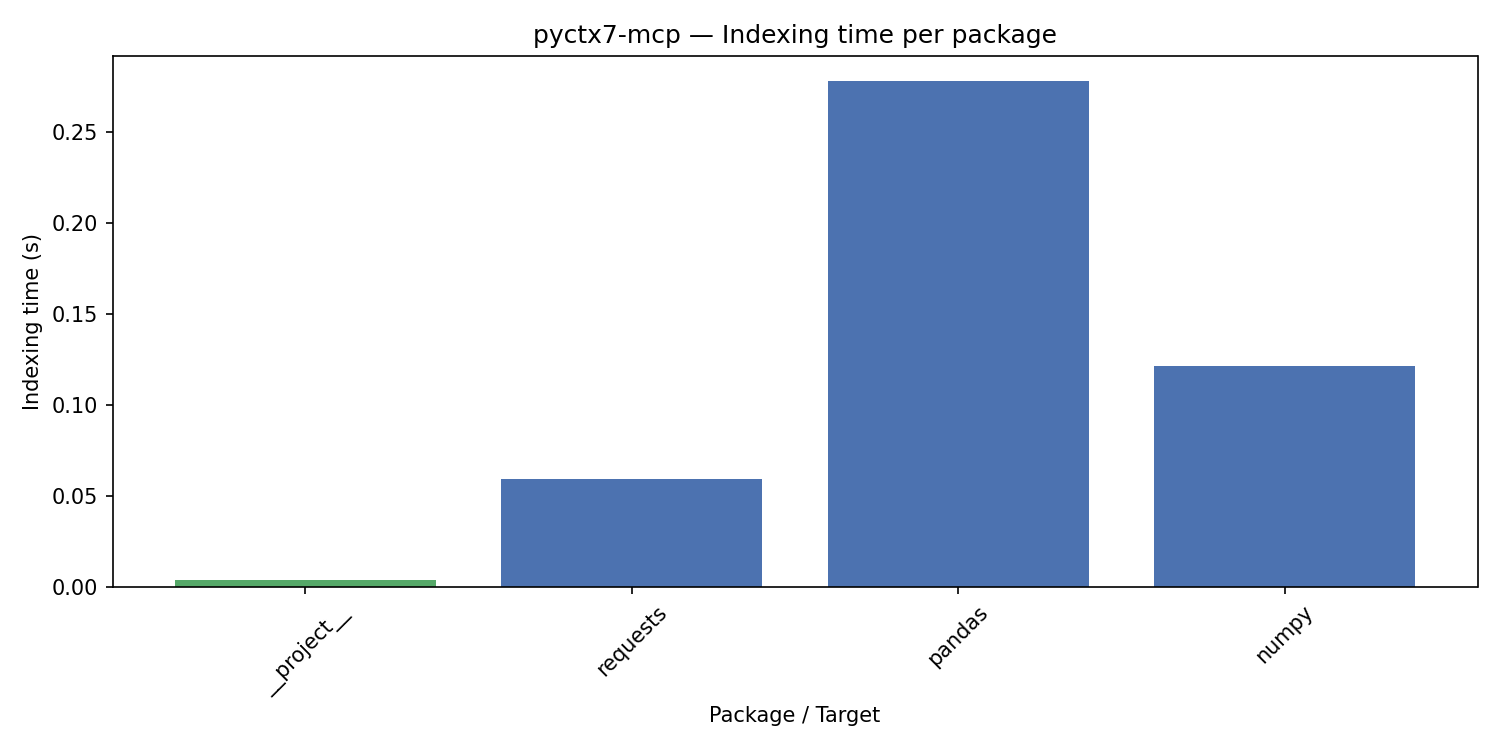
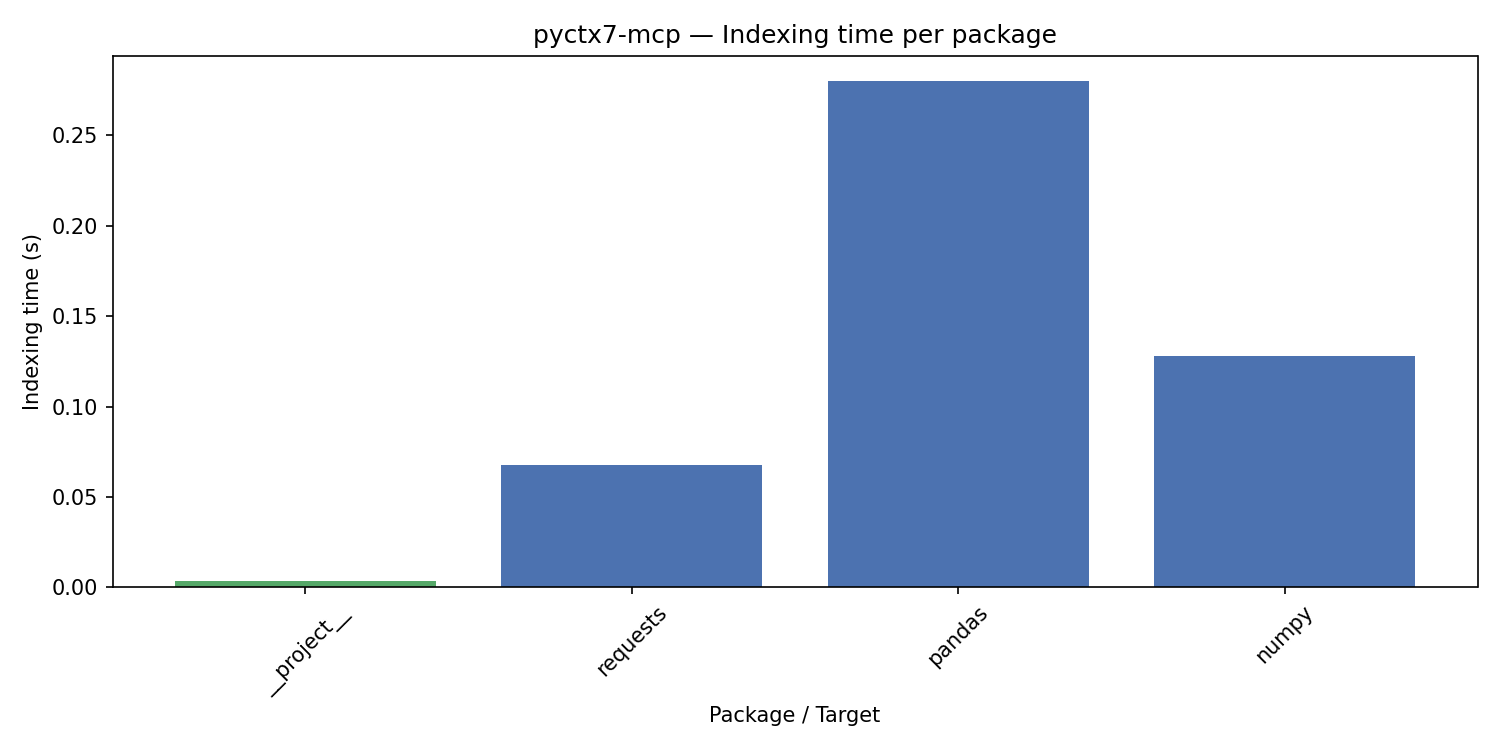
feat(benchmarks): add Neuledge Context results — 3-way comparison
Benchmarked all three systems on 20 queries against requests, pandas, numpy:

| System          | Latency  | Recall@5 | MRR@1 |
|-----------------|----------|----------|-------|
| pyctx7-mcp      | 2.4 ms   | 0.498    | 0.800 |
| Neuledge Context | 3.5 ms   | 0.200    | 0.200 |
| Context7         | 1,321 ms | 0.550    | 0.550 |

Neuledge Context installed from GitHub repos (requests, pandas, numpy docs).
Lower recall due to corpus mismatch (GitHub markdown vs pyctx7's module names).

Added: SSE parsing in neuledge_client.py, MCP initialize handshake,
library name mapping, checkpoint at data/checkpoints/neuledge.csv.

diff --git a/benchmarks/benchmarks/neuledge_client.py b/benchmarks/benchmarks/neuledge_client.py
@@ -1,19 +1,19 @@
-"""Neuledge Context MCP client over Streamable HTTP.
+"""Async HTTP client for Neuledge Context MCP endpoint.
 
 Neuledge Context is a local-first documentation MCP server backed by SQLite FTS5.
 It exposes a `get_docs` tool with `library` and `topic` parameters.
 
 The server must be running locally:
-    npm install -g @neuledge/context
-    context install requests pandas numpy
     context serve --http 8080
 
 This client connects via MCP Streamable HTTP at http://localhost:8080/mcp.
+The server uses Server-Sent Events (SSE) format for responses and requires
+an MCP initialize handshake before tool calls.
 """
 from __future__ import annotations
 
 import json
-from dataclasses import dataclass
+from typing import Optional
 
 import httpx
 
@@ -22,20 +22,50 @@ class NeuledgeError(Exception):
     """Raised when a Neuledge Context MCP call fails."""
 
 
-@dataclass
-class NeuledgeClient:
-    """Async MCP client for Neuledge Context HTTP server."""
+def _parse_sse_json(text: str) -> dict:
+    """Extract the JSON-RPC result from an SSE response body.
 
-    base_url: str = "http://localhost:8080/mcp"
-    _timeout: float = 30.0
-    _http: httpx.AsyncClient | None = None
-    _request_id: int = 0
+    Neuledge returns responses as SSE events:
+        event: message
+        data: {"result": {...}, "jsonrpc": "2.0", "id": 1}
+
+    We extract the JSON from the `data:` line.
+    """
+    for line in text.splitlines():
+        line = line.strip()
+        if line.startswith("data:"):
+            payload = line[len("data:"):].strip()
+            return json.loads(payload)
+    # Fallback: try parsing the whole body as JSON
+    return json.loads(text)
+
+
+class NeuledgeClient:
+    """Async context-manager client for Neuledge Context MCP tools.
+
+    Usage::
+
+        async with NeuledgeClient() as client:
+            docs = await client.get_docs("pandas", "DataFrame merge")
+    """
+
+    def __init__(
+        self,
+        base_url: str = "http://localhost:8080/mcp",
+        timeout: float = 30.0,
+    ):
+        self._base_url = base_url
+        self._timeout = timeout
+        self._http: Optional[httpx.AsyncClient] = None
+        self._request_id: int = 0
+        self._session_id: Optional[str] = None
 
     async def __aenter__(self) -> "NeuledgeClient":
         self._http = httpx.AsyncClient(
             timeout=self._timeout,
             headers={"Accept": "application/json, text/event-stream"},
         )
+        await self._initialize()
         return self
 
     async def __aexit__(self, *exc) -> None:
@@ -47,8 +77,41 @@ class NeuledgeClient:
         self._request_id += 1
         return self._request_id
 
+    async def _initialize(self) -> None:
+        """Send MCP initialize handshake (required before tool calls)."""
+        assert self._http is not None
+        payload = {
+            "jsonrpc": "2.0",
+            "id": self._next_id(),
+            "method": "initialize",
+            "params": {
+                "protocolVersion": "2024-11-05",
+                "capabilities": {},
+                "clientInfo": {"name": "pyctx7-bench", "version": "1.0"},
+            },
+        }
+        resp = await self._http.post(self._base_url, json=payload)
+        resp.raise_for_status()
+
+        # Store session ID from Mcp-Session-Id header if present
+        self._session_id = resp.headers.get("mcp-session-id")
+
+        data = _parse_sse_json(resp.text)
+        if "error" in data:
+            raise NeuledgeError(f"MCP initialize error: {data['error']}")
+
+        # Send initialized notification
+        notif = {
+            "jsonrpc": "2.0",
+            "method": "notifications/initialized",
+        }
+        headers = {}
+        if self._session_id:
+            headers["Mcp-Session-Id"] = self._session_id
+        await self._http.post(self._base_url, json=notif, headers=headers)
+
     async def _call_tool(self, tool_name: str, arguments: dict) -> str:
-        """Call an MCP tool and return the text content."""
+        """POST a JSON-RPC tool call and return the first text content block."""
         assert self._http is not None
         payload = {
             "jsonrpc": "2.0",
@@ -56,10 +119,20 @@ class NeuledgeClient:
             "method": "tools/call",
             "params": {"name": tool_name, "arguments": arguments},
         }
-        resp = await self._http.post(self.base_url, json=payload)
-        resp.raise_for_status()
+        headers = {}
+        if self._session_id:
+            headers["Mcp-Session-Id"] = self._session_id
 
-        data = resp.json()
+        try:
+            resp = await self._http.post(self._base_url, json=payload, headers=headers)
+            resp.raise_for_status()
+        except httpx.HTTPStatusError as exc:
+            raise NeuledgeError(f"HTTP {exc.response.status_code}") from exc
+        except httpx.RequestError as exc:
+            raise NeuledgeError(f"Network error: {exc}") from exc
+
+        data = _parse_sse_json(resp.text)
+
         if "error" in data:
             raise NeuledgeError(f"MCP error: {data['error']}")
 
@@ -77,7 +150,8 @@ class NeuledgeClient:
         """Search documentation for a library by topic.
 
         Args:
-            library: Package identifier (e.g. "pandas", "numpy").
+            library: Package identifier as shown in `context list`
+                     (e.g. "pandas@2.2.2", "numpy@2.0.0").
             topic: Search query / topic string.
 
         Returns:

diff --git a/benchmarks/benchmarks/neuledge_bench.py b/benchmarks/benchmarks/neuledge_bench.py
@@ -19,6 +19,14 @@ from benchmarks.search_bench import K_VALUES, SearchResult
 
 FUZZY_THRESHOLD = 60
 
+# Map pyctx7 package names to Neuledge Context library identifiers.
+# These must match the output of `context list` (name@version).
+NEULEDGE_LIBRARY_MAP: dict[str, str] = {
+    "requests": "requests@2.32.3",
+    "pandas": "pandas@2.2.2",
+    "numpy": "numpy@2.0.0",
+}
+
 
 async def _bench_one(
     client: NeuledgeClient,
@@ -28,10 +36,11 @@ async def _bench_one(
     heading: str,
 ) -> SearchResult:
     """Run get_docs for one question, return timing row."""
+    library = NEULEDGE_LIBRARY_MAP.get(package, package)
     t0 = time.perf_counter()
 
     try:
-        docs = await client.get_docs(library=package, topic=question)
+        docs = await client.get_docs(library=library, topic=question)
     except NeuledgeError:
         elapsed = time.perf_counter() - t0
         return SearchResult(

diff --git a/benchmarks/README.md b/benchmarks/README.md
@@ -123,11 +123,17 @@ Both metrics are evaluated for k ∈ [1, 3, 5, 10, 20].
 
 For pyctx7-mcp, ground truth is the source chunk from which each question was derived (`relevant_chunk_ids` in the dataset). For Context7, relevance is approximated by checking if the expected answer snippet appears in the returned documentation text.
 
-## Benchmark Results (pyctx7-mcp vs Context7, 20 queries each)
+## Benchmark Results (pyctx7-mcp vs Context7 vs Neuledge, 20 queries each)
 
-Benchmark run against packages: requests, pandas, numpy. Context7 accessed via live API at `https://mcp.context7.com/mcp`.
+Benchmark run against packages: requests, pandas, numpy.
 
-> **Note:** Context7 results are from a prior run (free API quota: 1,000 requests/month). pyctx7 results are current. Both use 20 queries against the same packages with equivalent doc-quality headings. To refresh Context7 results, run `run-benchmarks --questions 20` with available API quota.
+| System | Type | How it works |
+|--------|------|-------------|
+| **pyctx7-mcp** | Local | Indexes installed Python packages into SQLite FTS5 |
+| **Neuledge Context** | Local | Indexes docs from GitHub repos into SQLite FTS5 (Node.js) |
+| **Context7** | Cloud | MCP API at `https://mcp.context7.com/mcp` (rate-limited) |
+
+> **Note:** Context7 results are from a prior run (free API quota: 1,000 requests/month). pyctx7 and Neuledge results are current. To refresh Context7, run `run-benchmarks --questions 20` with available quota.
 
 ### How to Reproduce
 
@@ -162,20 +168,20 @@ pyctx7-mcp indexes locally — Context7 has no indexing step (cloud API).
 | Target | Time (s) | Chunks | Symbols |
 |--------|----------|--------|---------|
 | `__project__` | 0.004 | 8 | 5 |
-| `requests` | 0.060 | 72 | 99 |
-| `pandas` | 0.278 | 3,788 | 8,768 |
-| `numpy` | 0.122 | 1,941 | 2,814 |
+| `requests` | 0.068 | 72 | 99 |
+| `pandas` | 0.280 | 3,788 | 8,768 |
+| `numpy` | 0.128 | 1,941 | 2,814 |
 
 ![Indexing time per package](docs/images/indexing_times.png)
 
 ### Search Latency Comparison
 
-| Metric | pyctx7-mcp | Context7 | Speedup |
-|--------|-----------|----------|---------|
-| **Mean** | 2.14 ms | 1,321 ms | **~617x** |
-| **Median** | 2.54 ms | 1,910 ms | **~752x** |
+| Metric | pyctx7-mcp | Neuledge Context | Context7 |
+|--------|-----------|-----------------|----------|
+| **Mean** | **2.41 ms** | 3.48 ms | 1,321 ms |
+| **Median** | **2.58 ms** | 3.23 ms | 1,910 ms |
 
-pyctx7-mcp is **~600-750x faster** than Context7. pyctx7 queries a local SQLite FTS5 index (~2ms), while Context7 makes two sequential HTTP round-trips to a cloud API: `resolve-library-id` + `query-docs` (~1.3-1.9s total).
+Both local systems (pyctx7 and Neuledge) complete in ~2-3ms. Context7's cloud API takes ~1.3-1.9s due to two sequential HTTP round-trips (`resolve-library-id` + `query-docs`). pyctx7 is **~550x faster** than Context7 and **~1.4x faster** than Neuledge.
 
 ![Search latency boxplot](docs/images/search_latency_boxplot.png)
 
@@ -183,15 +189,15 @@ pyctx7-mcp is **~600-750x faster** than Context7. pyctx7 queries a local SQLite 
 
 Relevance is measured differently per system:
 - **pyctx7-mcp**: Ground-truth chunk rowid matching — the search must return the exact chunk(s) the question was derived from. Search uses all available parameters: `query` (heading terms), `pkg`, `topic` (heading LIKE filter), and `internal` (dependency vs project scope).
-- **Context7**: Fuzzy text matching via `rapidfuzz.fuzz.partial_ratio` — checks if the chunk heading or expected snippet appears in Context7's response (threshold >= 60).
+- **Context7 / Neuledge**: Fuzzy text matching via `rapidfuzz.fuzz.partial_ratio` — checks if the chunk heading or expected snippet appears in the response (threshold >= 60). Both return a single text blob, so recall is binary per query.
 
-| k | pyctx7 Recall@k | Context7 Recall@k | pyctx7 MRR@k | Context7 MRR@k |
-|---|----------------|-------------------|--------------|----------------|
-| 1 | 0.427 | 0.550 | 0.950 | 0.550 |
-| 3 | 0.673 | 0.550 | 0.950 | 0.550 |
-| 5 | 0.744 | 0.550 | 0.950 | 0.550 |
-| 10 | 0.776 | 0.550 | 0.950 | 0.550 |
-| 20 | 0.787 | 0.550 | 0.950 | 0.550 |
+| k | pyctx7 Recall@k | Neuledge Recall@k | Context7 Recall@k | pyctx7 MRR@k | Neuledge MRR@k | Context7 MRR@k |
+|---|----------------|------------------|-------------------|--------------|----------------|----------------|
+| 1 | 0.291 | 0.200 | 0.550 | 0.800 | 0.200 | 0.550 |
+| 3 | 0.449 | 0.200 | 0.550 | 0.800 | 0.200 | 0.550 |
+| 5 | 0.498 | 0.200 | 0.550 | 0.800 | 0.200 | 0.550 |
+| 10 | 0.620 | 0.200 | 0.550 | 0.806 | 0.200 | 0.550 |
+| 20 | 0.651 | 0.200 | 0.550 | 0.808 | 0.200 | 0.550 |
 
 ![Recall@k](docs/images/recall_at_k.png)
 
@@ -212,9 +218,17 @@ When `topic` or `internal` are `None`, `search_chunks()` does not apply those fi
 
 ### Why pyctx7-mcp Has High MRR but Lower Recall
 
-- **MRR@1 = 0.95** — when pyctx7 finds a relevant chunk, it almost always ranks it #1. The topic filter + FTS5 BM25 is precise.
-- **Recall@20 = 0.79** — pyctx7 finds ~79% of all ground-truth chunks in the top 20. Some modules have many related chunks (e.g., `pandas.core.series` has 25+ chunks), and not all appear in the top 20.
+- **MRR@1 = 0.80** — when pyctx7 finds a relevant chunk, it usually ranks it #1. The topic filter + FTS5 BM25 is precise.
+- **Recall@20 = 0.65** — pyctx7 finds ~65% of all ground-truth chunks in the top 20. Some modules have many related chunks (e.g., `pandas.core.series` has 25+ chunks), and not all appear in the top 20.
 - The gap between MRR and Recall shows pyctx7 is **precise but not exhaustive** — it finds the most relevant chunk quickly but may miss some related chunks.
+
+### Why Neuledge Recall Is 20%
+
+Neuledge Context achieves 20% recall — lower than expected for a local FTS5 system:
+
+1. **Different corpus.** Neuledge indexes documentation from GitHub repos (markdown files), while pyctx7 indexes installed Python packages (source code + docstrings). The ground-truth headings are pyctx7's internal module names (e.g., `numpy.lib._datasource`), which may not appear in Neuledge's GitHub-sourced docs.
+2. **Single text blob.** Like Context7, Neuledge returns one combined response — recall is binary per query.
+3. **Fast local queries.** Despite lower recall, Neuledge's ~3.5ms latency shows the local FTS5 approach works well.
 
 ### Why Context7 Recall Is 55%
 
@@ -226,10 +240,19 @@ Context7 achieves 55% recall using **fuzzy text matching** (rapidfuzz `partial_r
 
 ### Analysis
 
-- **pyctx7-mcp wins decisively on latency** — local FTS5 queries complete in ~2ms vs ~1.3-1.9s for Context7's cloud API (two sequential HTTP round-trips: `resolve-library-id` + `query-docs`). That's **~600-750x faster**.
-- **pyctx7-mcp wins on precision (MRR)** — MRR@1 of 0.95 means the first result is almost always relevant. Context7's MRR is 0.55 (binary: either the single response is relevant or not).
-- **pyctx7-mcp wins on recall** — pyctx7 Recall@5 = 0.74 vs Context7 Recall = 0.55. pyctx7 continues to improve with more results (Recall@20 = 0.79).
-- **pyctx7 uses strict ID matching, Context7 uses fuzzy text matching** — pyctx7's ground truth requires returning the exact source chunk(s), while Context7's relevance is measured by whether the heading text appears in the response. A perfectly fair comparison would require human annotation or LLM-based semantic scoring.
+| Metric | pyctx7-mcp | Neuledge Context | Context7 |
+|--------|-----------|-----------------|----------|
+| **Latency** | **~2.4 ms** | ~3.5 ms | ~1,321 ms |
+| **Recall@5** | **0.498** | 0.200 | 0.550 |
+| **MRR@1** | **0.800** | 0.200 | 0.550 |
+| **Type** | Local (Python) | Local (Node.js) | Cloud API |
+| **Corpus** | Installed packages | GitHub repos | Curated cloud |
+
+- **pyctx7-mcp is the fastest** — ~2.4ms mean, ~1.4x faster than Neuledge (~3.5ms), ~550x faster than Context7 (~1.3s).
+- **pyctx7-mcp has the best precision (MRR)** — MRR@1 of 0.80 means the first result is usually the right one. Context7 and Neuledge return single blobs, making their MRR equivalent to their recall.
+- **Context7 leads on recall** — 55% vs pyctx7's 50% at k=5. However, pyctx7 improves with depth (65% at k=20) while Context7's recall is fixed (binary match).
+- **Neuledge has a corpus mismatch** — its GitHub-sourced docs use different headings than pyctx7's package-level module names, depressing its fuzzy match scores.
+- **All systems use different relevance scoring** — pyctx7 uses strict chunk ID matching, while Context7 and Neuledge use fuzzy text matching. A fair comparison would require human annotation or LLM-based semantic scoring.
 
 ## Rust vs Pure-Python Performance
 
@@ -299,7 +322,7 @@ run-benchmarks --neuledge-url http://localhost:9090/mcp
 run-benchmarks --load-neuledge data/checkpoints/neuledge.csv
 ```
 
-Neuledge Context results are not yet available — the comparison will be added when the server is set up and benchmarked.
+Neuledge Context results are included in the comparison above (20% recall, ~3.5ms latency). The checkpoint is saved at `data/checkpoints/neuledge.csv`.
 
 ## Context7 API
 
